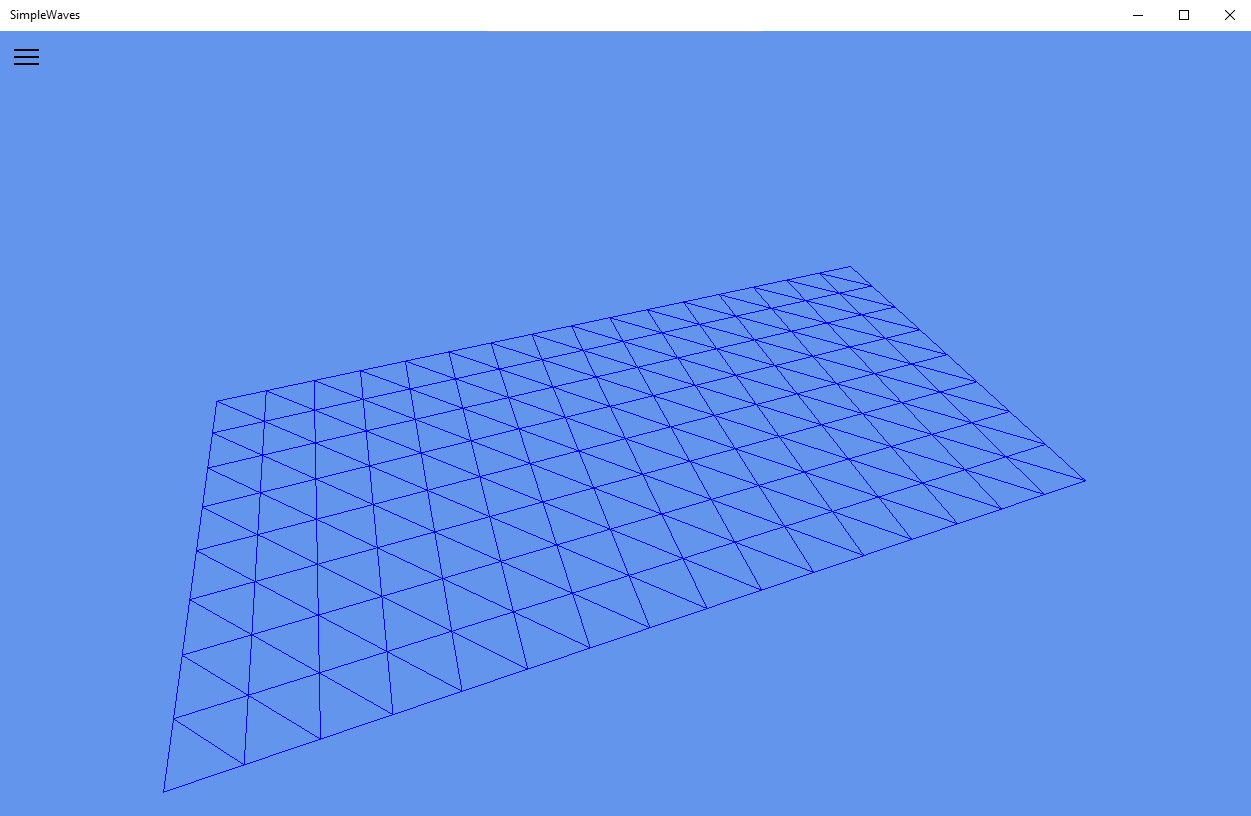
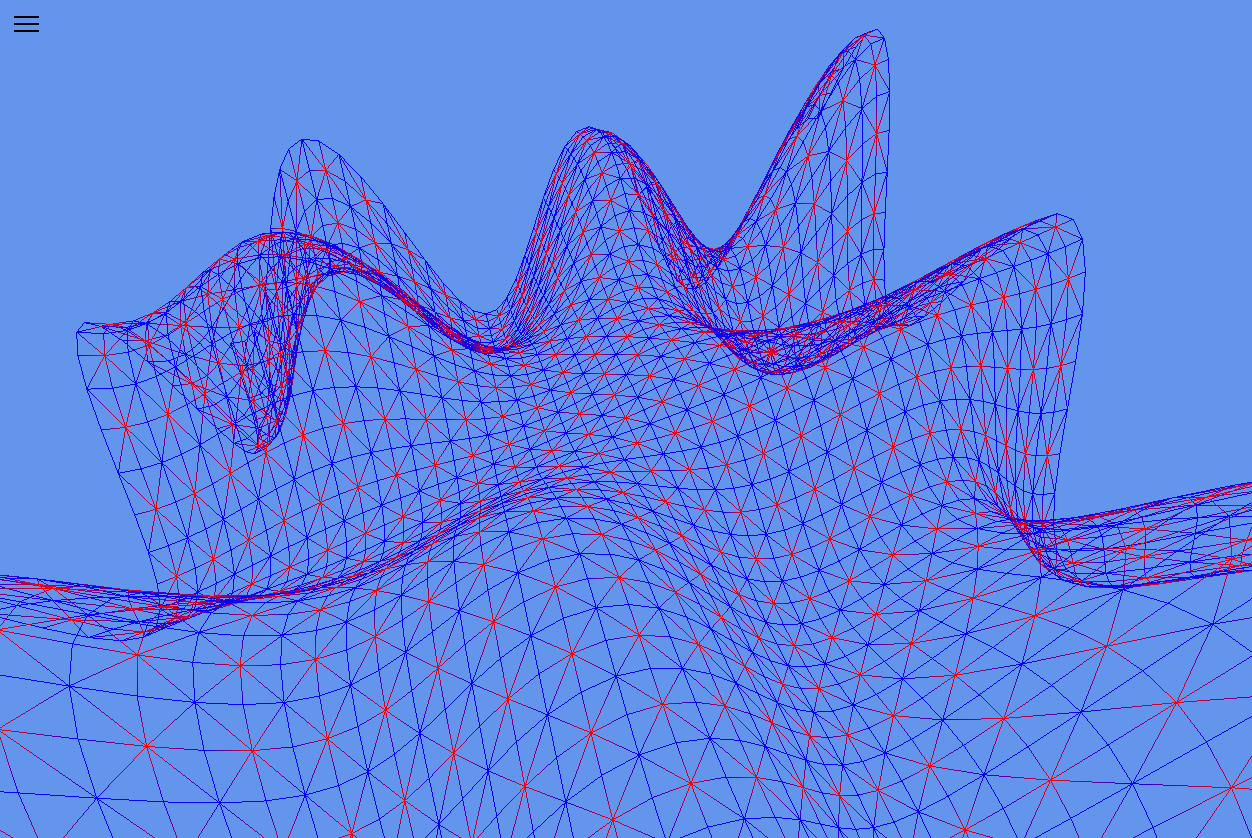
Update README

diff --git a/README.md b/README.md
@@ -36,7 +36,7 @@ The `TexturedCube` project extends the Hello World example by introducing the fo
 
 ## Simple Waves
 
-This app is under construction. For now, it just renders a wireframe grid.
+This is the first version of this app. For now, it applies a height function to a wireframe grid.
 
 <img src="./Docs/Images/SimpleWaves.png"/>
 
